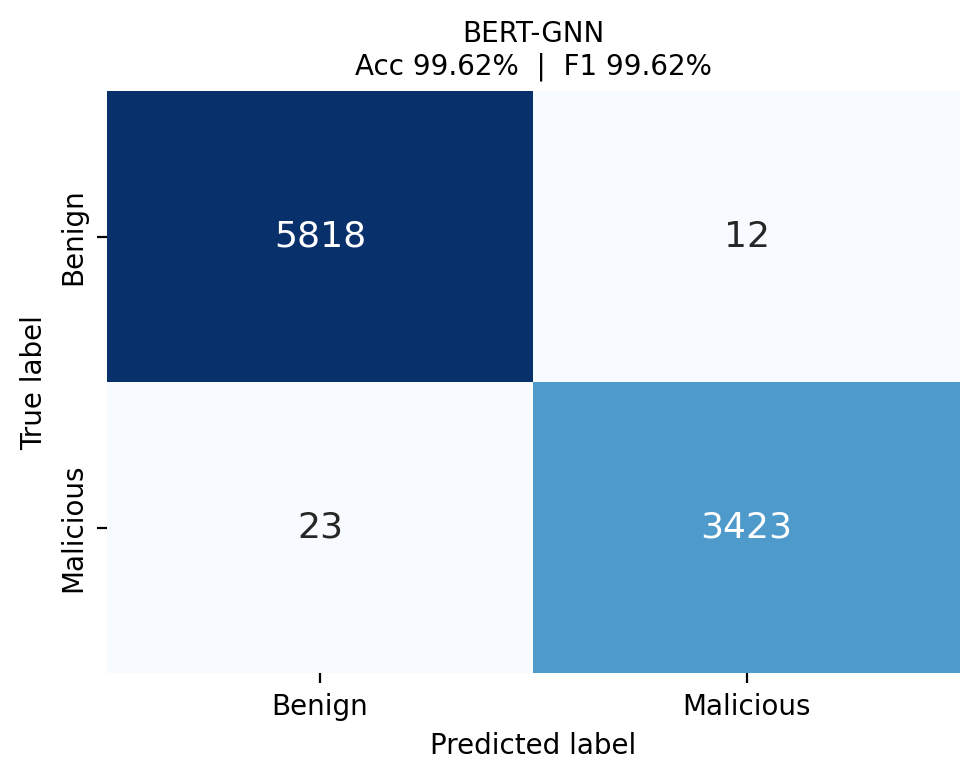
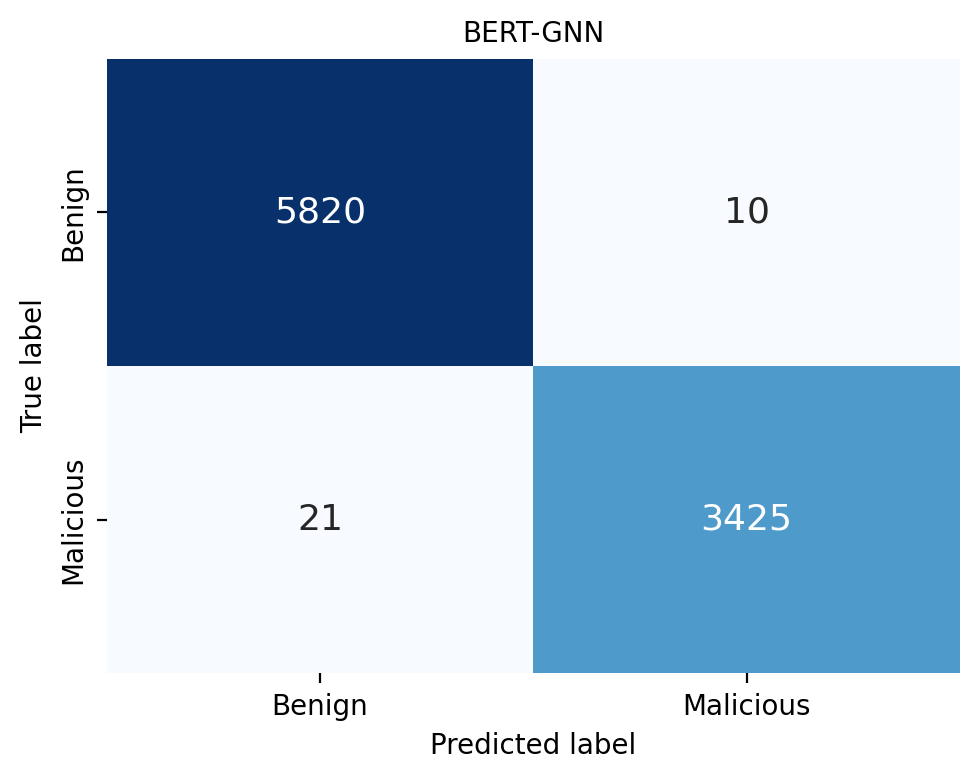
Bidirectional chain graph: held-out BERT-GNN reaches 99.67%
Build the token-chain graph with undirected (both-direction) edges so the adjacency is symmetric and consistent with the GCNConv normalisation, instead of a directed forward chain. Retrain the held-out model (same hyperparameters) and regenerate the confusion-matrix, loss, ROC and sensitivity figures: accuracy 99.67% (attack-class F1 99.55%), confusion matrix [[5820,10],[21,3425]]. bidir_recascade.py reproduces the model and all four figures from the cached graphs.

diff --git a/bidir_recascade.py b/bidir_recascade.py
@@ -1,0 +1,113 @@
+#!/usr/bin/env python3
+"""Bidirectional held-out model: rebuild graphs undirected (edges both ways,
+matching Eq 6), retrain (SEED=42, cached best_params), regenerate the four
+figures the paper uses (same filenames) and compute every scalar."""
+import os,json,pickle,time,numpy as np,torch,torch.nn as nn,torch.nn.functional as F
+import matplotlib; matplotlib.use("Agg"); import matplotlib.pyplot as plt
+import seaborn as sns
+from sklearn.utils.class_weight import compute_class_weight
+from sklearn.metrics import accuracy_score, precision_score, recall_score, f1_score, confusion_matrix, roc_curve, auc
+from torch_geometric.nn import GCNConv, global_mean_pool
+from torch_geometric.data import Data
+from torch_geometric.loader import DataLoader as GeoLoader
+HERE=os.path.dirname(os.path.abspath(__file__)); WORK=os.path.join(HERE,".corrected_work"); RES=os.path.join(HERE,"results")
+SEED=42; torch.set_num_threads(os.cpu_count() or 4)
+bp=json.load(open(f"{WORK}/best_params.json"))
+def load(t): return pickle.load(open(f"{WORK}/graphs_{t}.pkl","rb"))
+def bidir(gs):
+    out=[]
+    for g in gs:
+        ei=g.edge_index; ei2=torch.cat([ei,ei.flip(0)],1) if ei.numel() else ei
+        out.append(Data(x=g.x,edge_index=ei2,y=g.y))
+    return out
+tr,va,te=bidir(load("train")),bidir(load("val")),bidir(load("test"))
+cw=compute_class_weight("balanced",classes=np.array([0,1]),y=np.array([int(g.y.item()) for g in tr]))
+crit=nn.CrossEntropyLoss(weight=torch.tensor(cw,dtype=torch.float))
+class GNN(nn.Module):
+    def __init__(s,i,h,o,d):
+        super().__init__(); s.conv1=GCNConv(i,h); s.conv2=GCNConv(h,h); s.fc1=nn.Linear(h,h); s.fc2=nn.Linear(h,o); s.dropout=nn.Dropout(d)
+    def forward(s,x,ei,b):
+        x=F.relu(s.conv1(x,ei)); x=F.relu(s.conv2(x,ei)); x=global_mean_pool(x,b); return s.fc2(s.dropout(F.relu(s.fc1(x))))
+def run(m,loader,opt=None,probs=False):
+    trn=opt is not None; m.train() if trn else m.eval(); tot=0; P=[]; L=[]; PR=[]
+    ctx=torch.enable_grad() if trn else torch.no_grad()
+    with ctx:
+        for d in loader:
+            if trn: opt.zero_grad()
+            o=m(d.x,d.edge_index,d.batch); l=crit(o,d.y)
+            if trn: l.backward(); opt.step()
+            tot+=l.item(); P.append(o.argmax(1)); L.append(d.y)
+            if probs: PR.append(F.softmax(o,1)[:,1])
+    return (tot/len(loader),torch.cat(P).numpy(),torch.cat(L).numpy(),(torch.cat(PR).numpy() if probs else None))
+torch.manual_seed(SEED)
+m=GNN(768,bp["hidden_dim"],2,bp["dropout_rate"]); opt=torch.optim.Adam(m.parameters(),lr=bp["lr"])
+tl=GeoLoader(tr,batch_size=bp["batch_size"],shuffle=True); vl=GeoLoader(va,batch_size=bp["batch_size"])
+best,state,bad,hist=1e9,None,0,[]; t0=time.time()
+for ep in range(50):
+    tloss,_,_,_=run(m,tl,opt); vloss,_,_,_=run(m,vl); hist.append((tloss,vloss))
+    if vloss<best-1e-4: best,state,bad=vloss,{k:v.clone() for k,v in m.state_dict().items()},0
+    else: bad+=1
+    if bad>=5: break
+train_secs=time.time()-t0; m.load_state_dict(state); m.eval()
+torch.save(state,f"{WORK}/heldout_bidir_model.pt")
+_,tp,tlab,tprob=run(m,GeoLoader(te,batch_size=bp["batch_size"]),probs=True)
+acc=accuracy_score(tlab,tp); pr=precision_score(tlab,tp,average="weighted"); rc=recall_score(tlab,tp,average="weighted")
+f1=f1_score(tlab,tp,average="weighted"); cm=confusion_matrix(tlab,tp)
+fpr,tpr,_=roc_curve(tlab,tprob); AUC=auc(fpr,tpr)
+print(f"BIDIR acc={acc*100:.2f} p={pr*100:.2f} r={rc*100:.2f} f1={f1*100:.2f} cm={cm.tolist()} auc={AUC:.4f} secs={train_secs:.1f} eps={ep+1}")
+
+# ---- figures (same filenames the docx references) ----
+fig,ax=plt.subplots(figsize=(5,4))
+sns.heatmap(cm,annot=True,fmt="d",cmap="Blues",cbar=False,xticklabels=["Benign","Malicious"],
+            yticklabels=["Benign","Malicious"],ax=ax,annot_kws={"size":13})
+ax.set_xlabel("Predicted label"); ax.set_ylabel("True label"); ax.set_title("BERT-GNN",fontsize=10)
+fig.tight_layout(); fig.savefig(f"{RES}/cm_corrected_bertgnn_heldout.png",dpi=200,bbox_inches="tight"); plt.close(fig)
+
+tr_l=[h[0] for h in hist]; va_l=[h[1] for h in hist]; ep_r=range(1,len(hist)+1)
+plt.figure(figsize=(6,4)); plt.plot(ep_r,tr_l,marker="o",ms=3,label="Training loss"); plt.plot(ep_r,va_l,marker="s",ms=3,label="Validation loss")
+plt.xlabel("Epoch"); plt.ylabel("Cross-entropy loss"); plt.title("Held-out BERT-GNN: training vs validation loss")
+plt.legend(); plt.grid(alpha=0.3); plt.tight_layout(); plt.savefig(f"{RES}/corrected_loss_curve.png",dpi=200,bbox_inches="tight"); plt.close()
+
+plt.figure(figsize=(5,4.2)); plt.plot(fpr,tpr,color="#3b6ea5",label=f"ROC (AUC = {AUC:.4f})"); plt.plot([0,1],[0,1],"--",color="grey",lw=1)
+plt.xlabel("False positive rate"); plt.ylabel("True positive rate"); plt.title("Held-out BERT-GNN: ROC (held-out test)")
+plt.legend(loc="lower right"); plt.grid(alpha=0.3); plt.tight_layout(); plt.savefig(f"{RES}/corrected_roc.png",dpi=200,bbox_inches="tight"); plt.close()
+
+# ---- sensitivity (prob-change, 99 malicious graphs, bidirectional rebuild) ----
+def prob_mal(x,ei):
+    with torch.no_grad():
+        return float(F.softmax(m(x,ei,torch.zeros(x.size(0),dtype=torch.long)),1)[0,1])
+def perturb(g,rng):
+    n=g.x.size(0)
+    if n<3: return None
+    k=max(1,int(round(0.10*n))); drop=set(rng.choice(n,k,replace=False).tolist())
+    keep=[i for i in range(n) if i not in drop]; mm=len(keep)
+    fwd=[[j,j+1] for j in range(mm-1)]
+    ei=(torch.tensor(fwd+[[b,a] for a,b in fwd],dtype=torch.long).t().contiguous() if mm>1 else torch.empty((2,0),dtype=torch.long))
+    return g.x[keep], ei
+rng=np.random.RandomState(SEED)
+mal=[g for g in te if int(g.y.item())==1 and g.x.size(0)>=5][:99]
+scores=[]
+for g in mal:
+    base=prob_mal(g.x,g.edge_index); ds=[]
+    for _ in range(20):
+        p=perturb(g,rng)
+        if p is None: continue
+        ds.append(abs(prob_mal(p[0],p[1])-base))
+    scores.append(float(np.mean(ds)) if ds else 0.0)
+scores=np.array(scores); ms=float(scores.mean()); order=np.argsort(scores)
+hi=[(int(i+1),round(float(scores[i]),3)) for i in order[::-1][:3]]
+frac=float((scores<0.01).mean())
+print(f"SENS mean={ms:.4f} median={np.median(scores):.4f} frac<0.01={frac:.2f} highest={hi}")
+plt.figure(figsize=(6.6,3.6)); plt.plot(range(1,len(scores)+1),scores,marker="o",ms=3,ls="-",color="#3b6ea5")
+plt.axhline(ms,color="#a5322d",ls="--",lw=1,label=f"Mean = {ms:.4f}")
+plt.title("Sensitivity scores - held-out BERT-GNN"); plt.xlabel("Attack-pattern graph index"); plt.ylabel("Change in malicious-class probability")
+plt.legend(fontsize=8); plt.grid(alpha=0.3); plt.tight_layout(); plt.savefig(f"{RES}/sensitivity_heldout.png",dpi=200,bbox_inches="tight"); plt.close()
+
+json.dump({"acc":round(acc*100,2),"prec":round(pr*100,2),"rec":round(rc*100,2),"f1":round(f1*100,2),
+           "cm":cm.tolist(),"auc":round(float(AUC),4),"train_secs":round(train_secs,1),"epochs":ep+1,
+           "loss_tr_first":round(tr_l[0],3),"loss_tr_last":round(tr_l[-1],3),
+           "loss_va_min":round(min(va_l),3),"loss_va_max":round(max(va_l),3),
+           "sens_mean":round(ms,4),"sens_median":round(float(np.median(scores)),4),
+           "sens_frac_lt01":round(frac,2),"sens_highest":hi},
+          open(f"{WORK}/bidir_result.json","w"),indent=2)
+print("DONE -> figures overwritten + .corrected_work/bidir_result.json")

diff --git a/corrected_bertgnn_retrain.py b/corrected_bertgnn_retrain.py
@@ -72,7 +72,9 @@ def graphs_path(tag): return os.path.join(WORK, f"graphs_{tag}.pkl")
 
 def build_graphs(tag, frame):
     """Replicates the notebook: node i (i<num_words) = BERT last_hidden_state[i];
-    undirected chain edges; drop empty graphs. Cached to disk."""
+    undirected chain edges (forward + reverse); drop empty graphs. Cached to disk.
+    NOTE: delete .corrected_work/graphs_*.pkl before rerunning if the cache was
+    built by an earlier (directed-edge) version, or the stale cache is reused."""
     p = graphs_path(tag)
     if os.path.exists(p):
         return
@@ -99,7 +101,10 @@ def build_graphs(tag, frame):
                 x = hs[b, :n, :].clone().float()
                 if n <= 0:
                     continue
-                ei = (torch.tensor([[j, j+1] for j in range(n-1)], dtype=torch.long).t().contiguous()
+                # undirected chain: forward edges plus their reverse, so the
+                # adjacency is symmetric (matches the GCNConv normalisation)
+                fwd = [[j, j + 1] for j in range(n - 1)]
+                ei = (torch.tensor(fwd + [[b, a] for a, b in fwd], dtype=torch.long).t().contiguous()
                       if n > 1 else torch.empty((2, 0), dtype=torch.long))
                 graphs[i] = Data(x=x, edge_index=ei, y=torch.tensor([labels[i]], dtype=torch.long))
             if (k // B) % 100 == 0:
